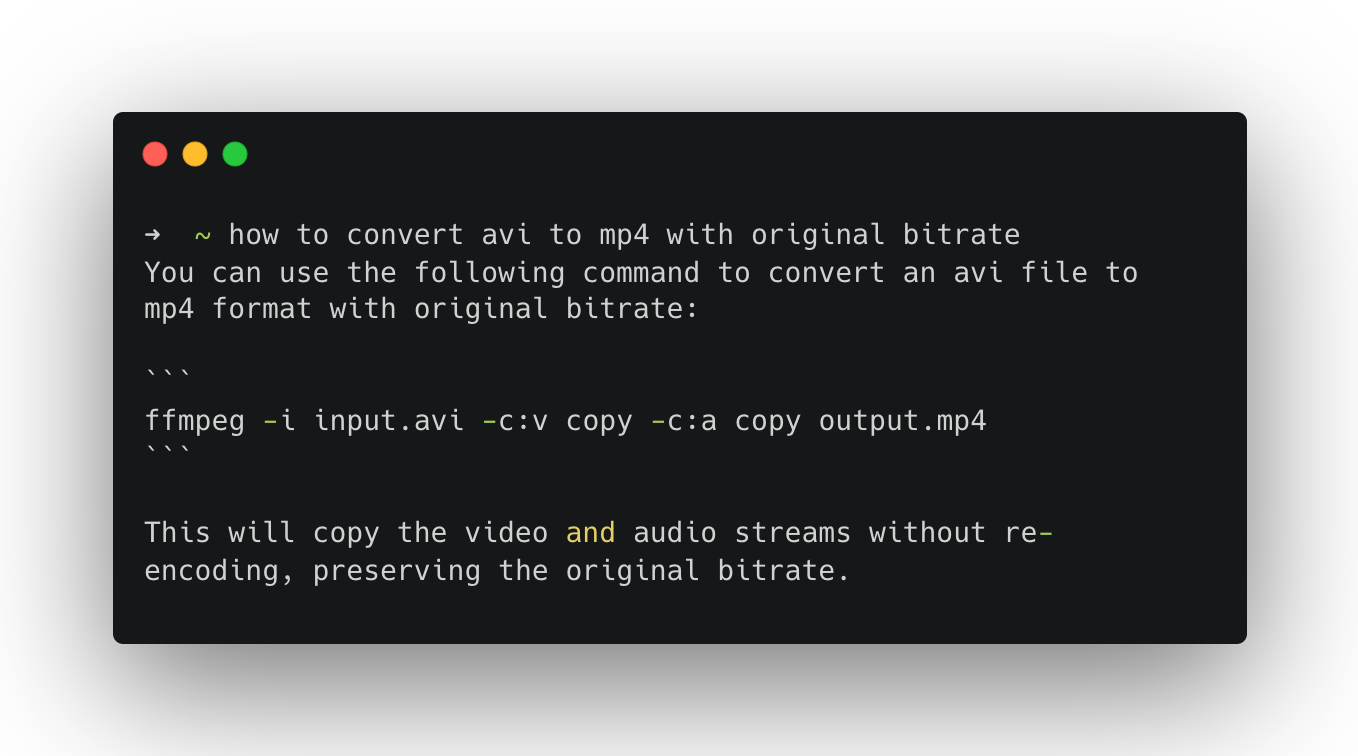
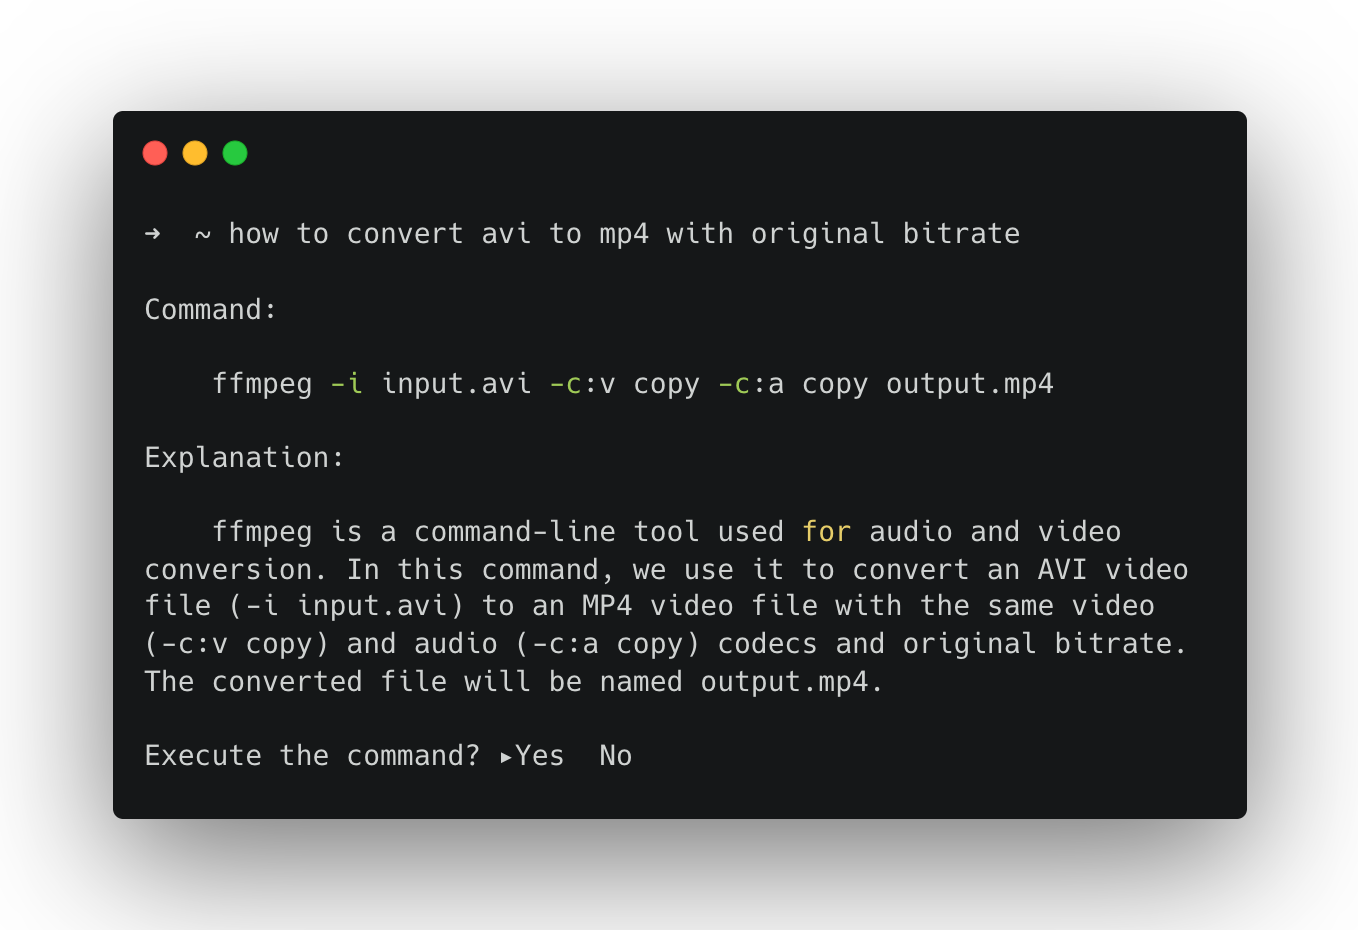
support directly execute command

diff --git a/main.go b/main.go
@@ -2,13 +2,15 @@ package main
 
 import (
 	"context"
-	"errors"
+	"encoding/json"
 	"fmt"
-	"io"
 	"os"
+	"os/exec"
 	"runtime"
 	"strings"
 
+	"github.com/erikgeiser/promptkit/confirmation"
+	"github.com/mattn/go-shellwords"
 	"github.com/sashabaranov/go-openai"
 	"github.com/urfave/cli/v2"
 )
@@ -27,7 +29,7 @@ func main() {
 		Name:        "how",
 		Description: "Copilot for your terminal",
 		Usage:       "how <question>",
-		Version:     "1.0.1",
+		Version:     "1.0.2",
 		Action: func(c *cli.Context) error {
 			q := strings.Join(c.Args().Slice(), " ")
 			return getAnswer(client, &ctx, q)
@@ -45,39 +47,34 @@ func getAnswer(client *openai.Client, ctx *context.Context, query string) error 
 	}
 
 	req := openai.ChatCompletionRequest{
-		Model:     openai.GPT3Dot5Turbo,
-		MaxTokens: 400,
-		Messages:  startConversation(query),
-		Stream:    true,
+		Model:       openai.GPT3Dot5Turbo,
+		MaxTokens:   400,
+		Messages:    startConversation(query),
+		Stream:      false,
+		Temperature: 0,
 	}
 
-	stream, err := client.CreateChatCompletionStream(*ctx, req)
+	resp, err := client.CreateChatCompletion(*ctx, req)
 	if err != nil {
 		return err
 	}
 
-	defer stream.Close()
-
-	for {
-		resp, err := stream.Recv()
-		if errors.Is(err, io.EOF) {
-			return nil
-		}
-		if err != nil {
-			return err
-		}
-
-		ans := resp.Choices[0].Delta.Content
-		fmt.Print(ans)
+	ans := resp.Choices[0].Message.Content
+	var answer Answer
+	if err := json.Unmarshal([]byte(ans), &answer); err != nil {
+		return err
 	}
+
+	outputAnswer(answer)
+	return nil
 }
 
 func startConversation(query string) []openai.ChatCompletionMessage {
 	var systemPrompt string
 	if runtime.GOOS == "windows" {
-		systemPrompt = "You are a proficient PowerShell user. Answer my question with PowerShell commands."
+		systemPrompt = "You are a proficient PowerShell user."
 	} else {
-		systemPrompt = "You are a proficient terminal user. Answer my question with terminal commands."
+		systemPrompt = "You are a proficient terminal user."
 	}
 
 	return []openai.ChatCompletionMessage{
@@ -87,7 +84,86 @@ func startConversation(query string) []openai.ChatCompletionMessage {
 		},
 		{
 			Role:    openai.ChatMessageRoleUser,
-			Content: query,
+			Content: makePrompt(query),
 		},
 	}
+}
+
+func makePrompt(query string) string {
+	prompt := `
+	Use terminal command to complete the task delimited by triple quotes.
+	Provide answer in JSON format. "command" key contains the command to run.
+	"explanation" key contains the explanation of the command.
+	If no such command exists, provide an empty string for "command" key.
+	"""
+	%s
+	"""
+	`
+
+	return fmt.Sprintf(prompt, query)
+}
+
+func outputAnswer(answer Answer) {
+	if answer.Command == "" {
+		fmt.Println("No such command exists.")
+		return
+	}
+
+	output := `
+Command:
+    
+    %s
+
+Explanation:
+
+    %s
+
+`
+	fmt.Printf(output, answer.Command, answer.Explanation)
+
+	sp := confirmation.New("Execute the command?", confirmation.Undecided)
+	ready, err := sp.RunPrompt()
+	if err != nil {
+		fmt.Println(err)
+		return
+	}
+
+	if ready {
+		fmt.Println("")
+		if err := executeCommand(answer.Command); err != nil {
+			fmt.Println(err)
+			return
+		}
+	} else {
+		fmt.Println("OK!")
+	}
+}
+
+func executeCommand(command string) error {
+	args, err := shellwords.Parse(command)
+	if err != nil {
+		return err
+	}
+
+	var cmd *exec.Cmd
+	if len(args) > 1 {
+		cmd = exec.Command(args[0], args[1:]...)
+	} else {
+		cmd = exec.Command(args[0])
+	}
+
+	cmd.Stdout = os.Stdout
+	cmd.Stderr = os.Stderr
+	err = cmd.Run()
+
+	if err != nil {
+		return err
+	}
+
+	return nil
+}
+
+type Answer struct {
+	Command     string `json:"command"`
+	Explanation string `json:"explanation"`
 }

diff --git a/README.md b/README.md
@@ -8,6 +8,7 @@ Copilot for your terminal, powered by Azure Cognitive Services
 - Works as a copilot for your terminal, simply types `how <question>` to ask it anything.
 - Powered by Azure Cognitive Services. Can easily migrate to OpenAI as it's now built on top of [go-openai](https://github.com/sashabaranov/go-openai) which supports both Azure and OpenAI APIs.
 - Uses PowerShell under Windows and bash under *nix.
+- Directly execute the command.
 
 ## Usage
 
